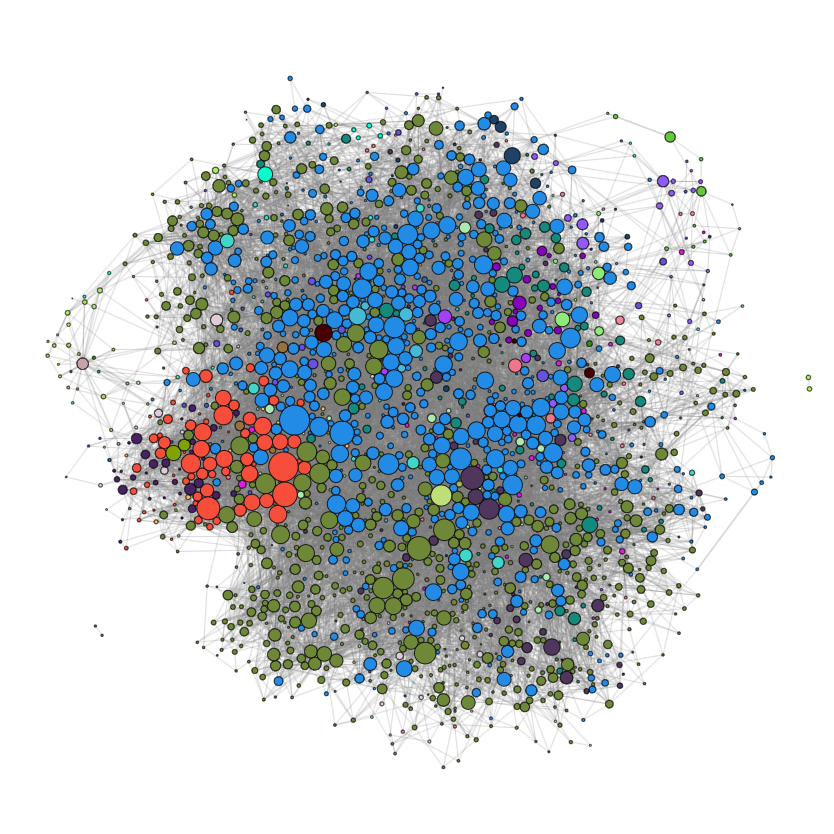
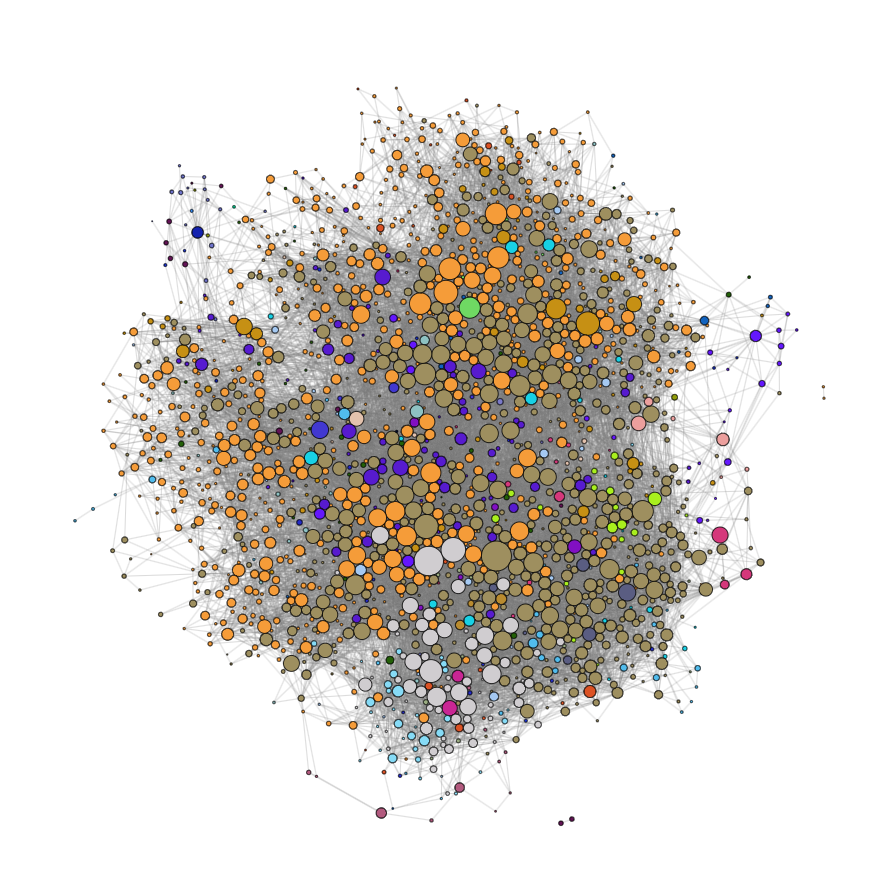
Added legends on front page redid images

diff --git a/content/_index.md b/content/_index.md
@@ -38,11 +38,13 @@ The NYT network:
 TODO: SMALL TABLE WITH 
 COLOR : SECTION
 ![](/images/nyt2.png)
+![](/images/nyt_legend.png)
 
 The NYT network shows that there are two major components: the larger one with several sections, and a smaller one to the left with only authors of the same section. The nodes in the smaller component are all authors from the movie section and shows how they very rarely collaborate with authors outside of their own section.
 The larger component is more mixed but it's still clear that authors from the same section are grouped together.
 
 ![](/images/reuters2.png)
+![](/images/reuters_legend.png)
 The reuters network is way more mixed showing that authors are more likely to collaborate with other authors from different sections but there are still clear tendencies such the red nodes being exclusively on left half of the graph.
 
 These visual interpretations are backed up by looking at the modularity with regards to section
